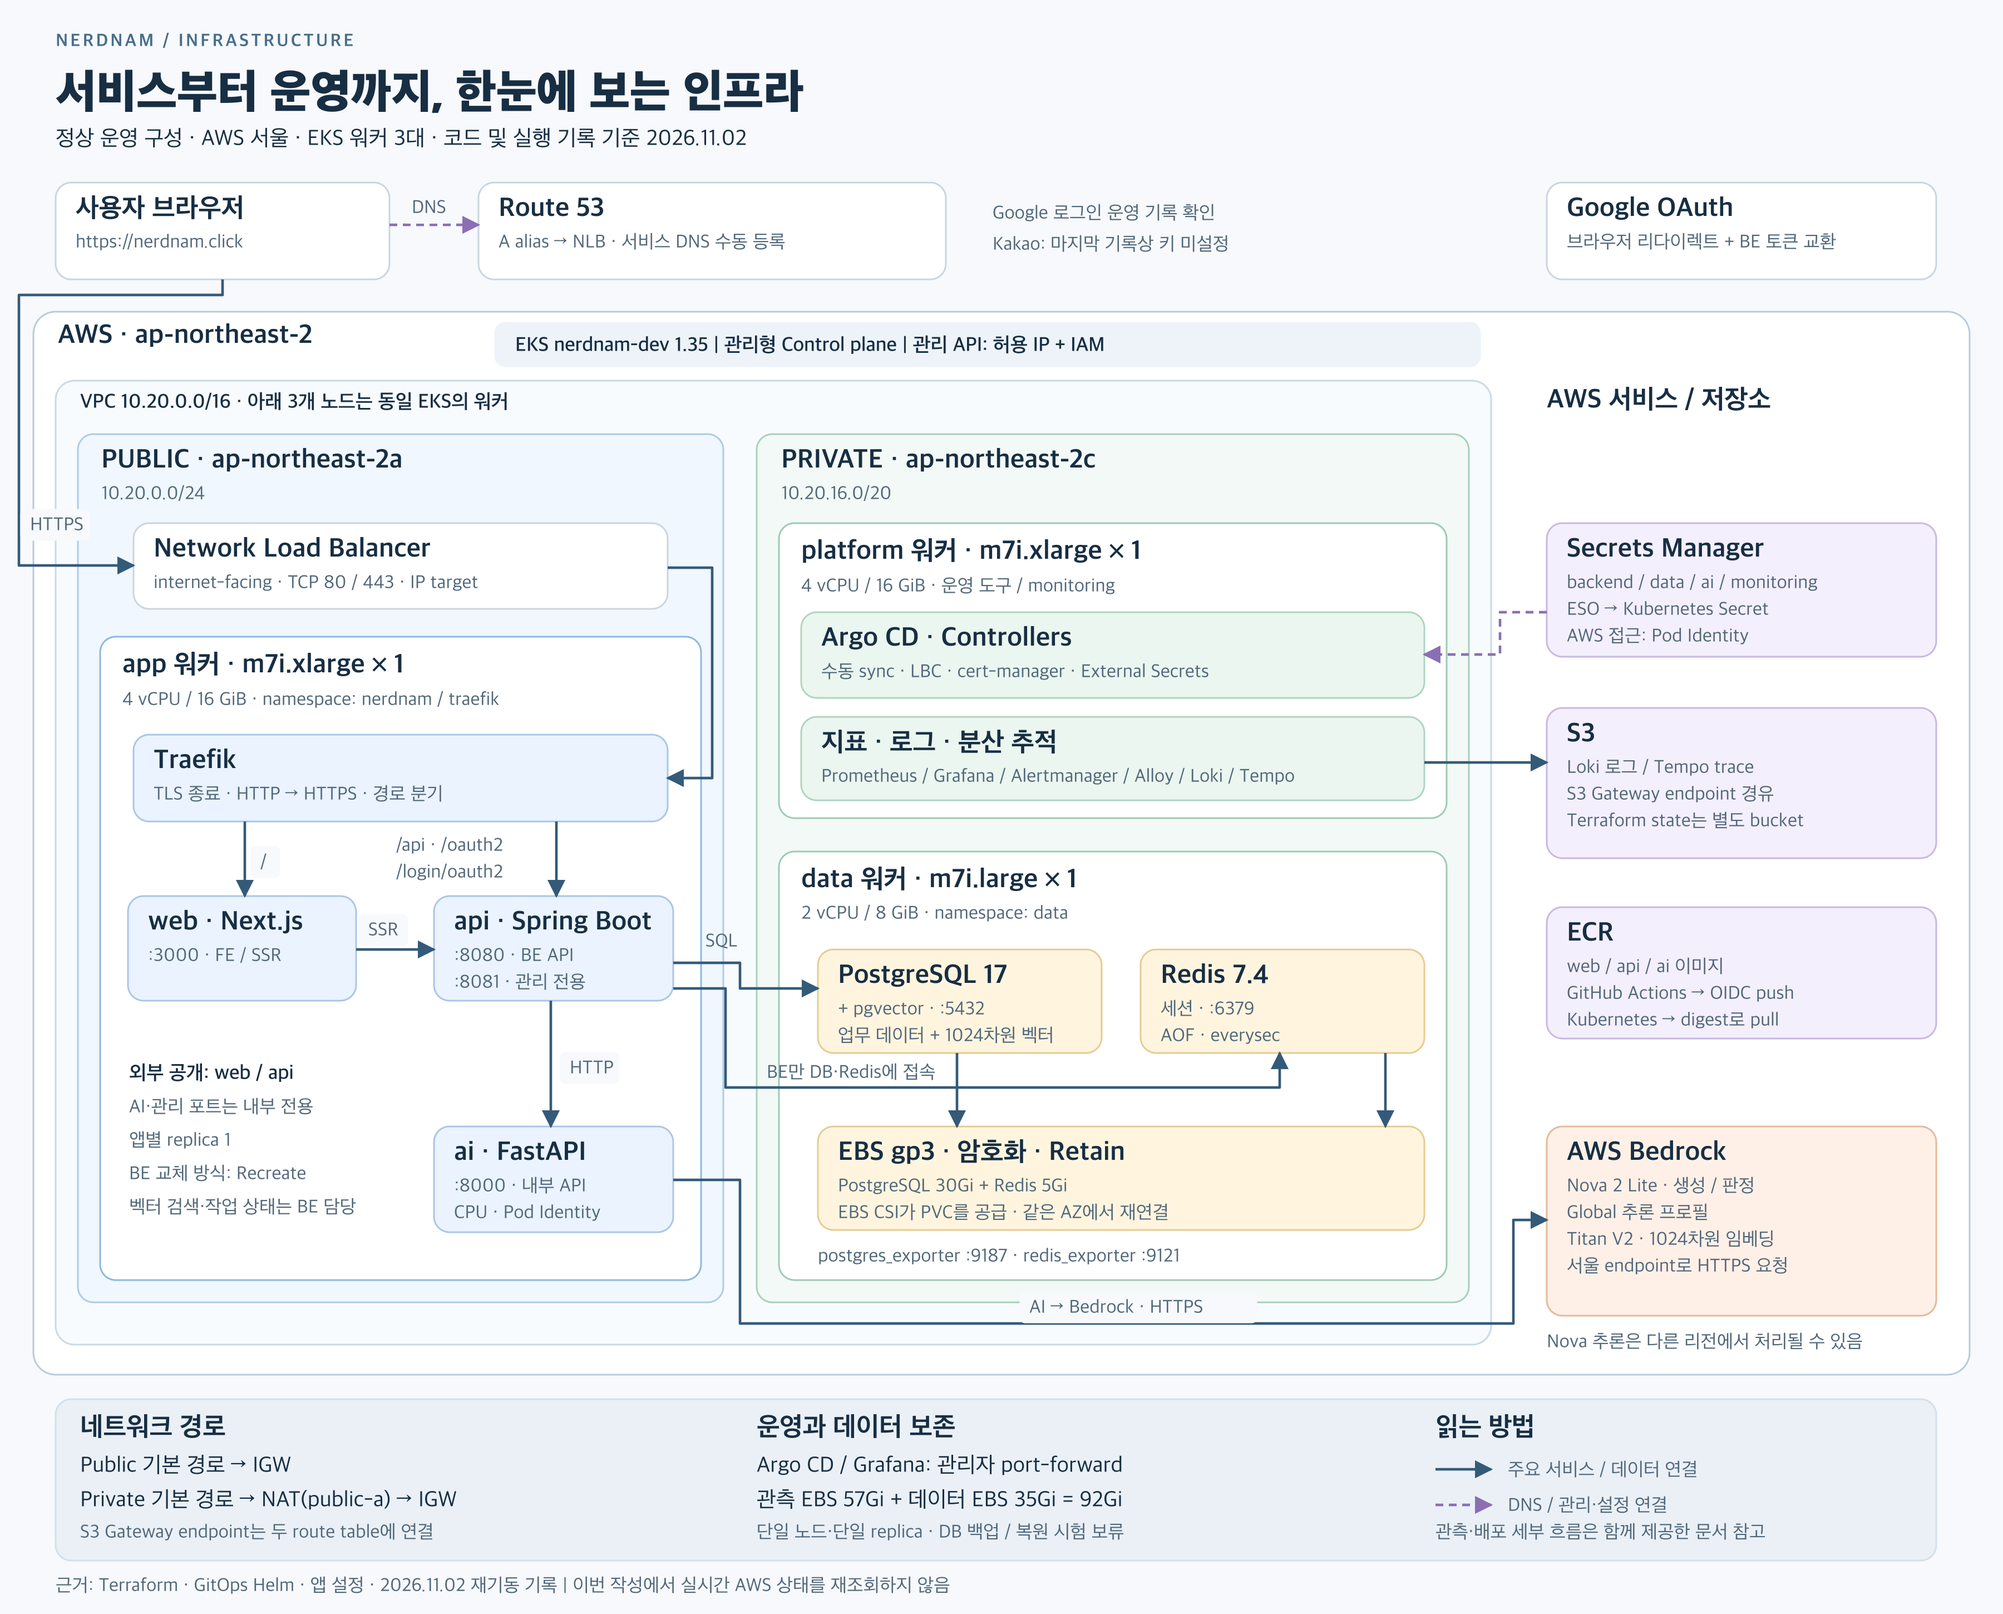
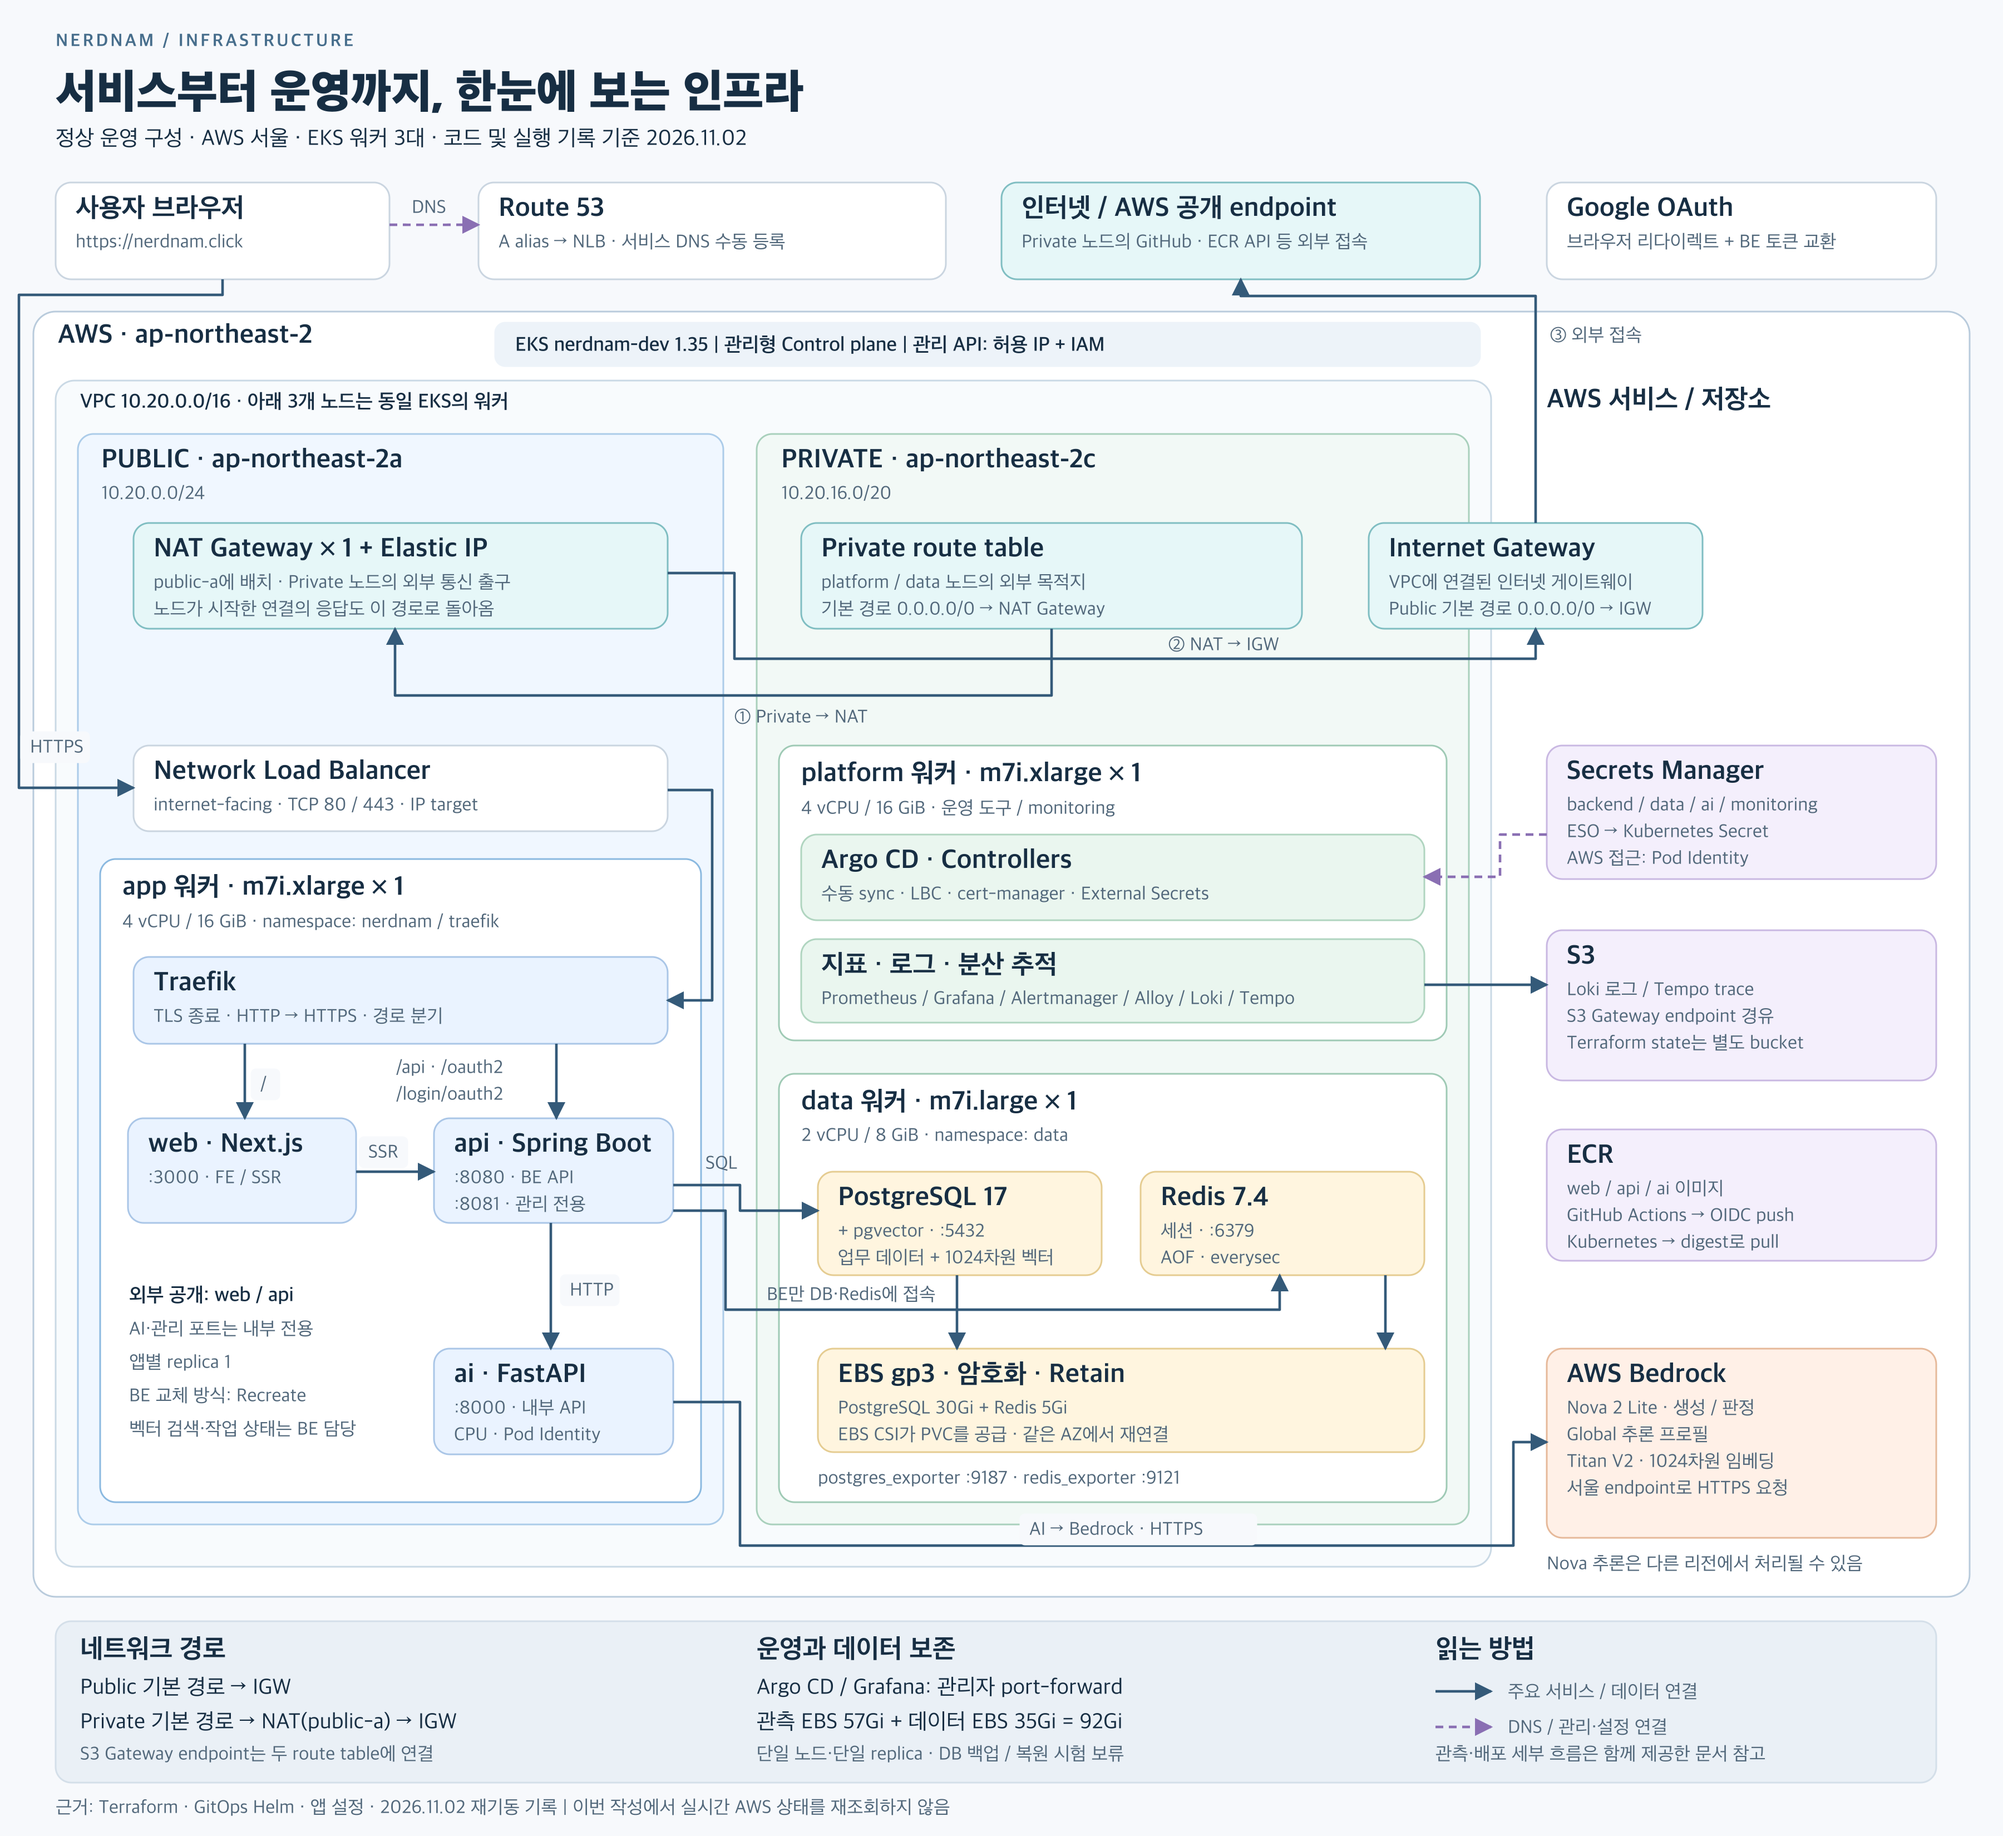
docs: 구성도에 NAT Gateway와 외부 통신 경로 추가
Public 서브넷의 NAT·EIP, Private 기본 경로, IGW를 그림에 명시한다. Terraform 경로 대조와 SVG·PNG 렌더링을 확인했다.

diff --git a/docs/인프라-아키텍처.md b/docs/인프라-아키텍처.md
@@ -61,6 +61,8 @@ Redis는 현재 로그인 세션 저장에 사용한다. AI 결과 캐시와 영
 | S3 Gateway endpoint | 두 route table에 연결 | S3 접근 경로 · Loki/Tempo 객체 저장 등에 사용 |
 | EKS API | private 활성화 + public CIDR 제한 | 관리자 IAM 권한과 허용 IP로 접근 |
 
+전체 구성도 상단에 **public-a의 NAT Gateway + Elastic IP**, **Private route table**, **VPC에 연결된 Internet Gateway**를 표시했다. Private 노드가 GitHub·ECR API 등 외부 목적지로 연결할 때의 기본 경로는 `Private → NAT → IGW → 외부`다. 노드가 시작한 연결의 응답도 같은 경로로 돌아온다. 사용자 요청을 받아 Traefik으로 전달하는 NLB는 이 경로와 별개다. VPC 내부 서비스 통신과 S3 Gateway endpoint를 사용하는 S3 통신은 NAT를 거치지 않는다.
+
 public app 노드의 인터넷 통신은 public route table의 IGW 경로를 사용한다. private 노드의 인터넷 통신은 NAT Gateway를 거친다. `gitops/apps/values.yaml`의 “앱 외부 HTTPS는 NAT를 거친다”는 주석은 실제 노드 배치 및 route 정의와 다르므로 그림에서는 Terraform의 네트워크 정의를 따른다. Pod의 외부 통신에는 VPC CNI의 기본 SNAT 동작을 전제로 하며, 별도 SNAT 변경 설정은 저장소에서 확인되지 않았다.
 
 - `nerdnam`·`data` namespace는 기본 수신·송신 차단 위에 DNS와 필요한 연결을 허용한다. platform 전체가 같은 수준으로 차단됐다고 해석하면 안 된다.
